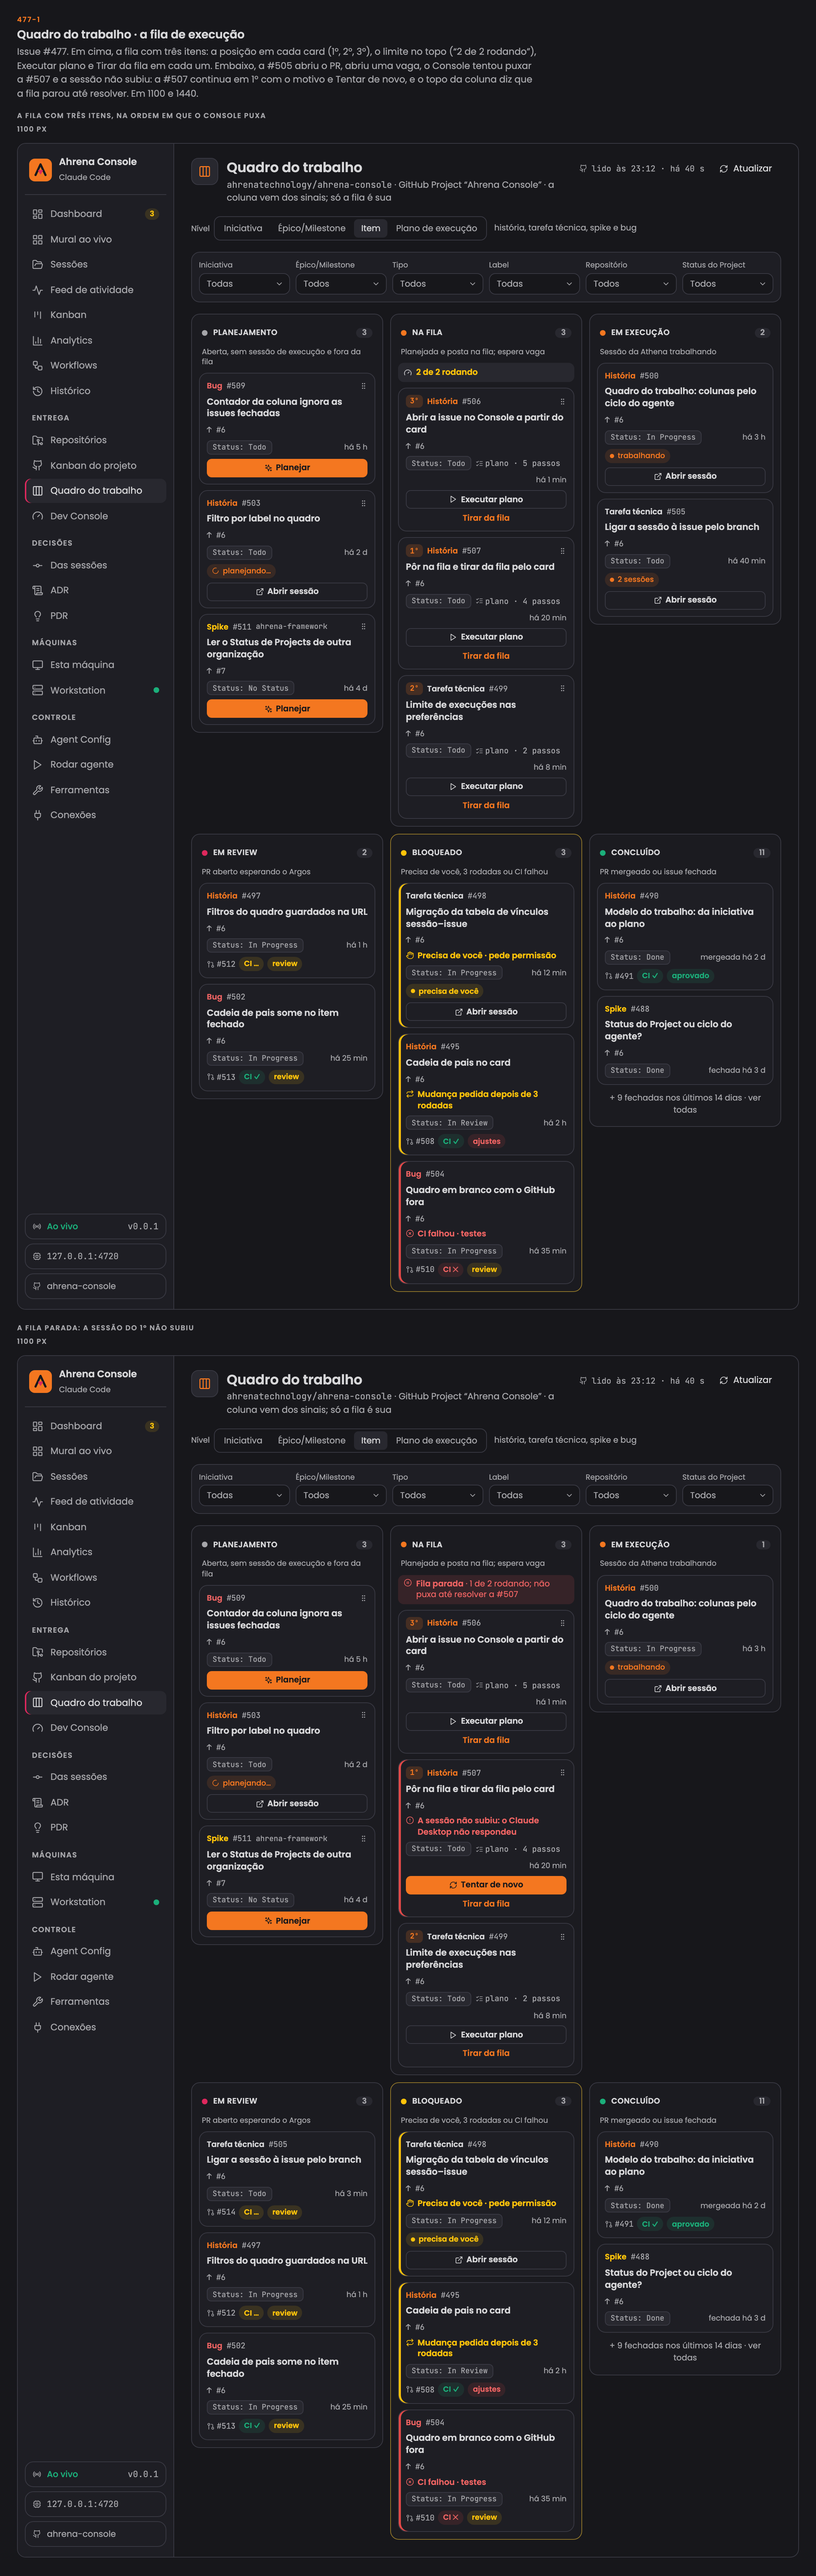
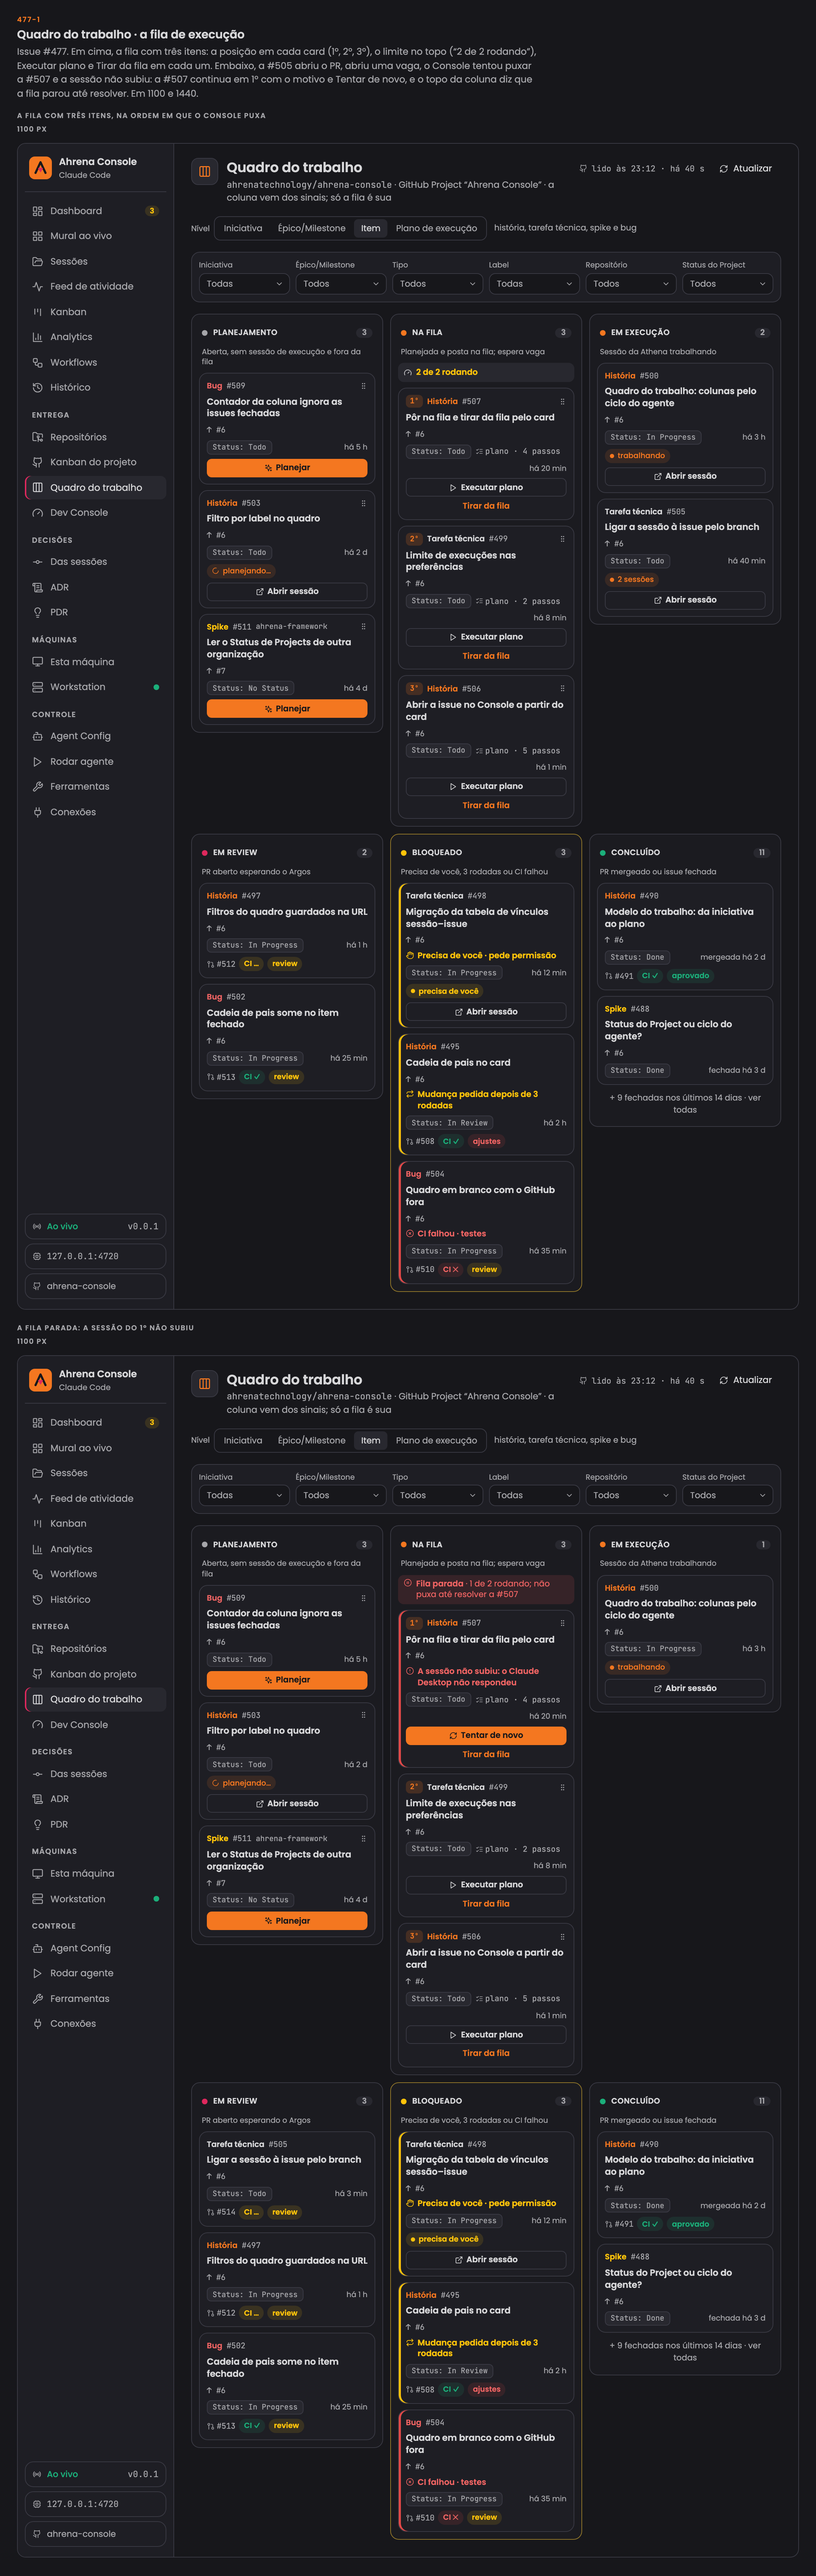
docs: order the queue column by position (#477)
wbCols sorts cards that carry a queue position by it, so Na fila reads
1º, 2º, 3º from the top on every screen. Recaptures work-board-queue.

diff --git a/docs/wireframes/index.html b/docs/wireframes/index.html
@@ -6137,7 +6137,9 @@ function wbBoard(w, cols, o = {}) {
     return `<div class="col wb-col${cls}"><div class="cab"><span class="ponto" style="background:${dot}"></span><span>${label}</span>${lock}<span class="n">${o.count?.[k] ?? list.length}</span></div><div class="wb-crit">${crit}</div>${limit}${body}${more}</div>`
   }).join('')}</div>`
 }
-const wbCols = (filter = () => true, o = {}, items = WB_ITEMS) => WB_COLUMNS.reduce((acc, [k]) => ({ ...acc, [k]: items.filter(c => c.col === k && filter(c)).map(c => wbCard(c, o)) }), {})
+// Under issue 477 the queue column reads in queue order: cards with a position sort by it, the rest keep their order.
+const wbByQueue = (a, b) => (a.q ?? Infinity) - (b.q ?? Infinity) || 0
+const wbCols = (filter = () => true, o = {}, items = WB_ITEMS) => WB_COLUMNS.reduce((acc, [k]) => ({ ...acc, [k]: items.filter(c => c.col === k && filter(c)).sort(wbByQueue).map(c => wbCard(c, o)) }), {})
 const WB_READ = `<span class="wb-read">${ic('github')}lido às 23:12 · há 40 s</span>`
 const wbHead = (o = {}) => `<div class="cc-cab"><div class="ico">${ic('columns-3')}</div><div style="min-width:0"><h4>Quadro do trabalho</h4><div class="sub"><span class="mono">ahrenatechnology/ahrena-console</span> · GitHub Project “Ahrena Console” · a coluna vem dos sinais; só a fila é sua</div></div><div class="acoes">${o.read ?? WB_READ}${o.refresh ?? atualizar}</div></div>`
 const WB_LEVELS = [['initiative', 'Iniciativa'], ['epic', 'Épico/Milestone'], ['item', 'Item'], ['plan', 'Plano de execução']]
